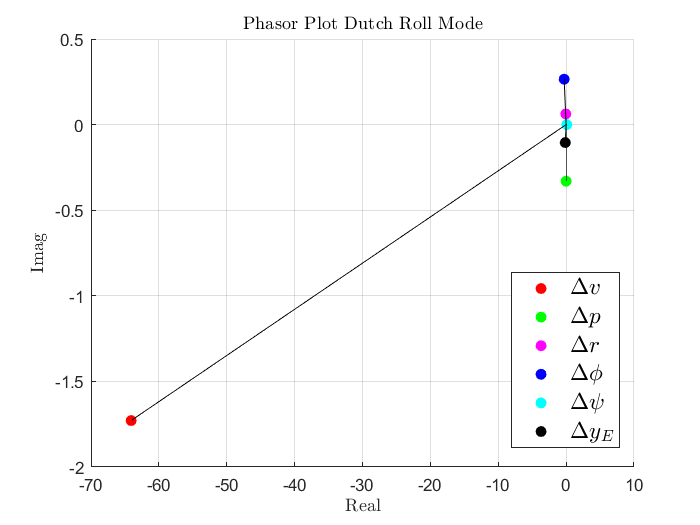
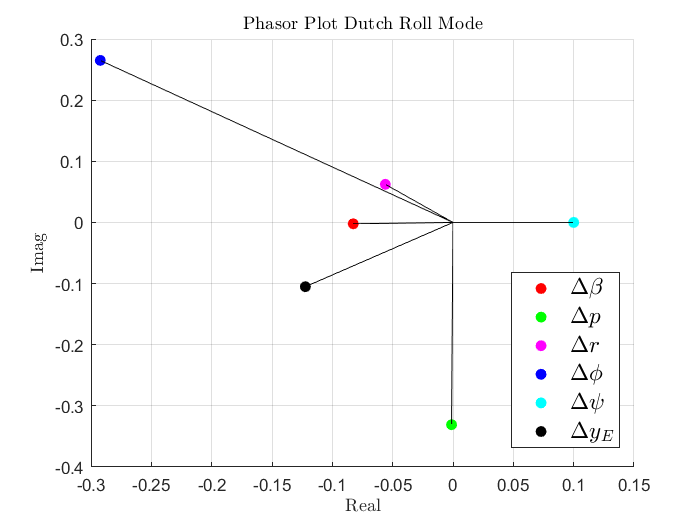
Update

diff --git a/ASEN3128/Homeworks/hw7.m b/ASEN3128/Homeworks/hw7.m
@@ -76,6 +76,10 @@ dutch = eigVec(:,3);
 lateralPhugoid(6,1) = lateralPhugoid(6,1) / 100;
 dutch(6,1) = dutch(6,1) / 100;
 
+%Get the v to beta
+lateralPhugoid(1,1) = lateralPhugoid(1,1) / 775;
+dutch(1,1) = dutch(1,1) / 775;
+
 %Normalize with respect to psi so it is 0.1 radians
 lateralPhugoid = lateralPhugoid / lateralPhugoid(5) * 0.1;
 dutch = dutch / dutch(5) * 0.1;
@@ -135,7 +139,7 @@ plot([0, dutchReal(6)], [0, dutchImag(6)], 'k');
 title('Phasor Plot Dutch Roll Mode');
 xlabel('Real');
 ylabel('Imag');
-legend('$\Delta v$', '$\Delta p$', '$\Delta r$', '$ \Delta \phi $', '$ \Delta \psi $', '$ \Delta y_{E} $', 'Interpreter','latex', 'FontSize', 14, 'location', 'best');
+legend('$\Delta \beta$', '$\Delta p$', '$\Delta r$', '$ \Delta \phi $', '$ \Delta \psi $', '$ \Delta y_{E} $', 'Interpreter','latex', 'FontSize', 14, 'location', 'best');
 
 
 %Lateral Phugoid
@@ -160,4 +164,4 @@ plot([0, lateralPReal(6)], [0, lateralPImag(6)], 'k');
 title('Phasor Plot Lateral Phugoid Mode');
 xlabel('Real');
 ylabel('Imag');
-legend('$\Delta v$', '$\Delta p$', '$\Delta r$', '$ \Delta \phi $', '$ \Delta \psi $', '$ \Delta y_{E} $', 'Interpreter','latex', 'FontSize', 14, 'location', 'best');
+legend('$\Delta \beta$', '$\Delta p$', '$\Delta r$', '$ \Delta \phi $', '$ \Delta \psi $', '$ \Delta y_{E} $', 'Interpreter','latex', 'FontSize', 14, 'location', 'best');

diff --git a/ASEN1320/FinalProject/part3.m b/ASEN1320/FinalProject/part3.m
@@ -1,0 +1,17 @@
+
+
+
+vec = [0 0 0 0 0 0 1 1 1 0 0 0 0 0];
+vecPos = linspace(1,100, length(vec));
+time = linspace(0,10, length(vec));
+
+logVec = vec == 1;
+
+visibleXPositions = vecPos(logVec);
+time2 = time(logVec);
+
+figure();
+plot(time, vecPos);
+hold on
+plot(time2, visibleXPositions, '*');
+
